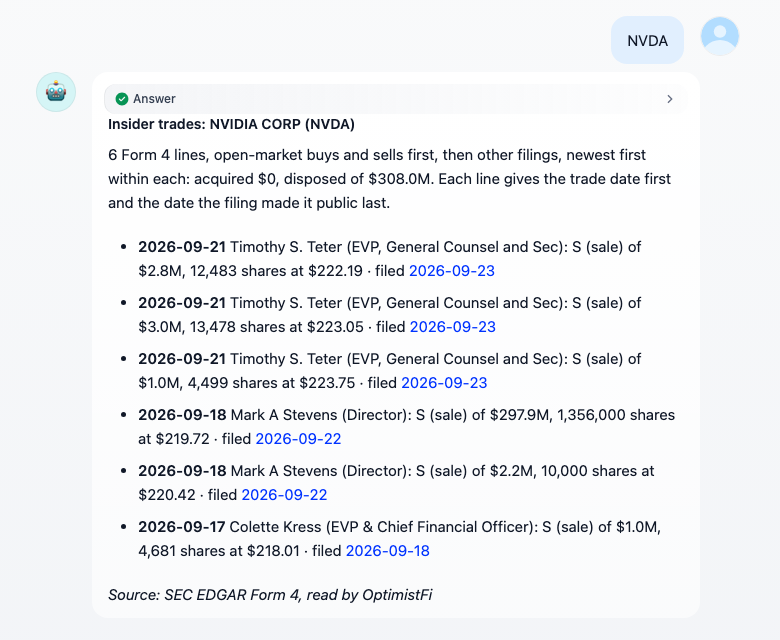
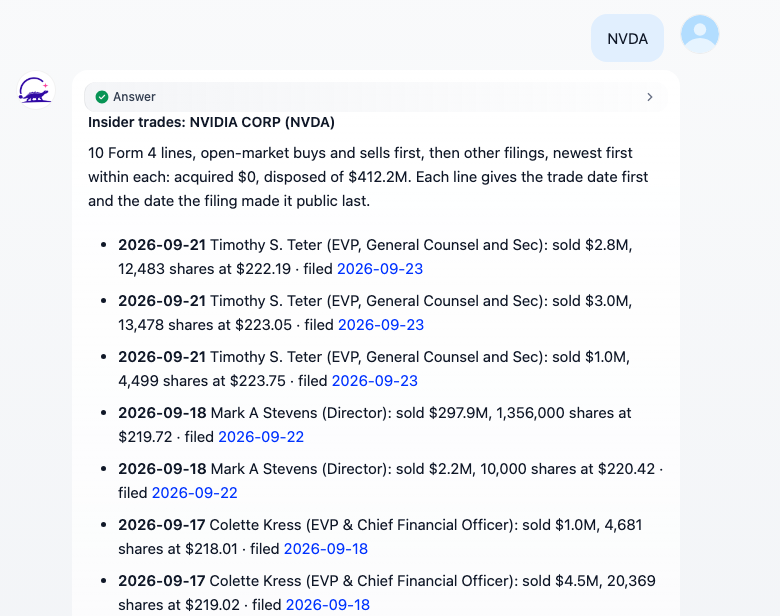
Calendar as a list with named trials; insider lines say what was done; one retry on a restart
Testing each tool in Dify 1.18 showed three things to fix before 0.1.1:
- Earnings Calendar's table scrolled sideways in the chat bubble and cut the
  basis off. It is now a list. Trial readouts name the study, phase and
  condition, link to ClinicalTrials.gov, and are cited as its data; they used
  to read "fda event, estimated" with nothing else.
- Insider lines used the bare code letter ("S (sale)"). They now use the
  server's verb ("sold", "gave away"), and a sale to cover tax says so.
- A 502/503/504 while the server restarts is retried once after 5 seconds,
  and a lasting one says the server is restarting.

README screenshots are retaken with the OptimistFi icon as the demo apps'
avatar, and the insider tool copy says "what they did" in all four languages.

Changed region(s): [[0.1231, 0.3701, 0.8615, 1.0], [0.0308, 0.0925, 0.8615, 0.3393], [0.7692, 0.0, 0.9538, 0.0925]]

diff --git a/optimistfi/render.py b/optimistfi/render.py
@@ -116,28 +116,33 @@ def _company(records: Sequence[Any]) -> str:
     return f"{name} ({ticker})" if name and ticker else str(name or ticker or "")
 
 
-# The SEC's Form 4 codes (Form 4, General Instructions, item 8).
-FORM4_CODES = {
-    "P": "purchase",
-    "S": "sale",
-    "A": "award",
-    "D": "to company",
-    "F": "tax withheld",
-    "M": "option exercise",
-    "X": "option exercise",
-    "O": "option exercise",
-    "C": "conversion",
-    "G": "gift",
-    "J": "other",
-    "W": "inheritance",
+# The SEC's Form 4 codes as verbs (Form 4, General Instructions, item 8), for a reply without the server's own.
+FORM4_VERBS = {
+    "P": "bought",
+    "S": "sold",
+    "A": "received",
+    "D": "returned to the company",
+    "F": "surrendered for tax",
+    "M": "exercised",
+    "X": "exercised",
+    "O": "exercised",
+    "C": "converted",
+    "G": "gave away",
+    "W": "inherited",
 }
 
 
-def _form4_code(code: Any) -> str:
-    if not code:
-        return DASH
-    meaning = FORM4_CODES.get(str(code).upper())
-    return f"{code} ({meaning})" if meaning else str(code)
+def _insider_act(data: dict[str, Any]) -> str:
+    """What the insider did as a verb ("sold", "gave away"), then the money and the shares."""
+    code = str(data.get("txn_code") or "").upper()
+    verb = data.get("direction") or FORM4_VERBS.get(code) or (f"filed Form 4 code {code} for" if code else "reported")
+    money = fmt.usd(data["value"]) if fmt.is_num(data.get("value")) and data["value"] else None
+    shares = f"{fmt.number(data['shares'])} shares" if fmt.is_num(data.get("shares")) else None
+    if shares and fmt.is_num(data.get("price")) and data["price"]:
+        shares += f" at {fmt.price(data['price'])}"
+    detail = ", ".join(part for part in (money, shares) if part)
+    act = f"{verb} {detail}" if detail else verb
+    return act + (", to cover tax on vesting stock" if data.get("sell_to_cover") else "")
 
 
 def insider_trades(records: Sequence[Any]) -> Summary:
@@ -153,9 +158,7 @@ def insider_trades(records: Sequence[Any]) -> Summary:
         "Each line gives the trade date first and the date the filing made it public last.",
         "\n".join(
             f"- **{r.get('event_time')}** {fmt.clip(r['data'].get('insider_display_name') or r['data'].get('insider_name'), 60)}: "
-            f"{_form4_code(r['data'].get('txn_code'))} of {fmt.usd(r['data'].get('value'))}, "
-            f"{fmt.number(r['data'].get('shares'))} shares at {fmt.price(r['data'].get('price'))} · "
-            f"filed {fmt.link(str(r.get('as_of')), source_url(r))}"
+            f"{_insider_act(r['data'])} · filed {fmt.link(str(r.get('as_of')), source_url(r))}"
             for r in trades[:25]
         ),
         "_Source: SEC EDGAR Form 4, read by OptimistFi_",
@@ -341,33 +344,59 @@ def company_filings(records: Sequence[Any], kind: str = "events") -> Summary:
 # -------------------------------------------------------------------- calendar
 
 
+PHASE_RE = re.compile(r"(EARLY_)?PHASE(\d)")
+
+
+def _phase(value: Any) -> str | None:
+    found = PHASE_RE.findall(str(value or ""))
+    if not found:
+        return None
+    return ("Early " if found[0][0] else "") + "Phase " + "/".join(n for _, n in found)
+
+
+def _calendar_line(record: dict[str, Any]) -> str:
+    d = record.get("data") or {}
+    when = f"- **{d.get('projected_date') or record.get('event_time') or DASH}**"
+    status = record.get("confidence") or d.get("status") or DASH
+    if d.get("event_type") == "trial_readout":
+        facts = [
+            _phase(d.get("phase")),
+            d.get("indication"),
+            str(d.get("status") or "").replace("_", " ").lower() or None,
+        ]
+        about = "; ".join(fmt.clip(f, 90) for f in facts if f)
+        return (
+            f"{when} trial readout, {status}: {fmt.clip(d.get('drug'), 120)}"
+            + (f" ({about})" if about else "")
+            + f" · {fmt.link('ClinicalTrials.gov', source_url(record))}"
+        )
+    event = (d.get("subtype") or record.get("type") or "event").replace("_", " ")
+    line = f"{when} {event}, {status}" + (f": {d['estimate_basis']}" if d.get("estimate_basis") else "")
+    return line + (f". Last reported {d['last_reported']}." if d.get("last_reported") else "")
+
+
 def company_calendar(records: Sequence[Any]) -> Summary:
     company = _company(records)
     events = [r for r in records if isinstance(r, dict) and r.get("type") not in ("thesis_impact",) and r.get("data")]
     if not events:
         return generic(records, f"{company}: what is ahead")
-    lines = [f"### {company}: what is ahead"]
-    rows = []
-    for r in events[:MAX_ROWS]:
-        d = r.get("data") or {}
-        basis = d.get("estimate_basis")
-        status = r.get("confidence") or d.get("status")
-        rows.append(
-            [
-                d.get("projected_date") or r.get("event_time"),
-                (d.get("subtype") or r.get("type") or DASH).replace("_", " "),
-                f"{status}" + (f": {basis}" if basis else ""),
-                d.get("last_reported") or DASH,
-            ]
+    lines = [f"### {company}: what is ahead", "\n".join(_calendar_line(r) for r in events[:MAX_ROWS])]
+    shown = events[:MAX_ROWS]
+    if any((r.get("data") or {}).get("estimate_basis") for r in shown):
+        lines.append(
+            "An estimated earnings date is projected from the company's own filing cadence; it is not a date the company announced."
         )
-    lines.append(fmt.table(["Date", "Event", "Status and basis", "Last reported"], rows))
-    lines.append(
-        "An estimated date is projected from the company's own filing cadence; it is not a date the company announced."
-    )
+    if any((r.get("data") or {}).get("event_type") == "trial_readout" for r in shown):
+        lines.append(
+            "A trial readout date is the study's primary completion date as its sponsor filed it on ClinicalTrials.gov."
+        )
     thesis = _thesis_line(records)
     if thesis:
         lines.append(thesis)
-    lines.append("_Source: SEC EDGAR filing cadence, computed by OptimistFi_")
+    sources = ["SEC EDGAR filing cadence, computed by OptimistFi"]
+    if any((r.get("data") or {}).get("event_type") == "trial_readout" for r in shown):
+        sources.append("ClinicalTrials.gov")
+    lines.append(f"_Source: {'; '.join(sources)}_")
     earnings = next((r for r in events if (r.get("data") or {}).get("subtype") == "earnings"), {})
     variables = {
         "as_of": earnings.get("as_of") or events[0].get("as_of"),

diff --git a/tests/test_render.py b/tests/test_render.py
@@ -62,7 +62,7 @@ def test_insider_rows_carry_trade_and_filing_dates():
     assert "open-market buys and sells first, then other filings, newest first within each" in text
 
     assert (
-        "- **2026-09-21** Timothy S. Teter (EVP, General Counsel and Sec): S (sale) of $2.8M, 12,483 shares at $222.19"
+        "- **2026-09-21** Timothy S. Teter (EVP, General Counsel and Sec): sold $2.8M, 12,483 shares at $222.19"
         " · filed [2026-09-23](https://www.sec.gov/Archives/edgar/data/1045810/000169684126000014/)"
     ) in text
 
@@ -107,11 +107,30 @@ def test_projected_earnings_reads_as_an_estimate():
     summary = summarize("calendar_aapl")
 
     assert (
-        "| 2026-10-29 | earnings | estimated: expected imminently — projected 2026-10-29 from filing cadence"
-        " (median gap 91d over 8 filings)"
+        "- **2026-10-29** earnings, estimated: expected imminently — projected 2026-10-29 from filing cadence"
+        " (median gap 91d over 8 filings), not yet filed; typically confirmed within days. Last reported 2026-07-30."
     ) in summary.text
     assert summary.variables["next_earnings_confidence"] == "estimated"
-    assert "| confirmed" not in summary.text  # the basis may say a date is "typically confirmed within days"
+    assert ", confirmed" not in summary.text  # the basis may say a date is "typically confirmed within days"
+
+
+@pytest.mark.parametrize("name", ["calendar_aapl", "calendar_mrna", "calendar_lly"])
+def test_calendar_is_a_list_so_a_long_basis_wraps_in_the_chat_bubble(name):
+    # A table scrolled sideways in Dify's bubble and cut the basis off mid-word.
+    assert "|---" not in summarize(name).text
+
+
+def test_trial_readouts_name_the_study_and_link_its_registry_entry():
+    text = summarize("calendar_lly").text
+
+    assert (
+        "- **2027-02-01** trial readout, estimated: A First-In-Human Study of LY3954068 in Participants With Early"
+        " Symptomatic Alzheimer's Disease (Phase 1; Alzheimer Disease; recruiting)"
+        " · [ClinicalTrials.gov](https://clinicaltrials.gov/study/NCT06297590)"
+    ) in text
+    assert "primary completion date as its sponsor filed it on ClinicalTrials.gov" in text
+    assert "fda event" not in text
+    assert text.endswith("_Source: SEC EDGAR filing cadence, computed by OptimistFi; ClinicalTrials.gov_")
 
 
 def test_8k_text_starts_at_the_first_item_not_the_xbrl_header():
@@ -175,3 +194,30 @@ def test_a_flow_label_reads_as_words():
     text = render.company_filings(records, kind="events").text
 
     assert "**mildly bearish**" in text and "mildly_bearish" not in text
+
+
+@pytest.mark.parametrize(
+    ("data", "text"),
+    [
+        (
+            {"txn_code": "S", "direction": "sold", "value": 2.8e6, "shares": 12483, "price": 222.19},
+            "sold $2.8M, 12,483 shares at $222.19",
+        ),
+        (
+            {"txn_code": "G", "direction": "gave away", "value": 0, "shares": 500000, "price": 0},
+            "gave away 500,000 shares",
+        ),
+        (
+            {"txn_code": "S", "direction": "sold", "sell_to_cover": True, "value": 1e4, "shares": 50, "price": 200},
+            "sold $10K, 50 shares at $200.00, to cover tax on vesting stock",
+        ),
+        ({"txn_code": "A", "value": None, "shares": 1000, "price": None}, "received 1,000 shares"),
+        ({"txn_code": "K", "shares": 10}, "filed Form 4 code K for 10 shares"),
+        (
+            {"txn_code": "F", "direction": "surrendered", "shares": 2000, "price": 220},
+            "surrendered 2,000 shares at $220.00",
+        ),
+    ],
+)
+def test_insider_lines_say_what_was_done_without_a_bare_code(data, text):
+    assert render._insider_act(data) == text

diff --git a/tests/test_client.py b/tests/test_client.py
@@ -81,10 +81,40 @@ def test_timeout_explains_itself(_post):
 @patch("optimistfi.client.httpx.post")
 def test_http_status_is_reported(post):
     request = httpx.Request("POST", client.ENDPOINT)
-    response = httpx.Response(503, request=request, text="unavailable")
-    post.return_value = response
+    post.return_value = httpx.Response(404, request=request, text="not found")
 
-    assert client.call("get_insider_trades", {"entity": "AAPL"}).error == "OptimistFi answered with HTTP 503."
+    assert client.call("get_insider_trades", {"entity": "AAPL"}).error == "OptimistFi answered with HTTP 404."
+    assert post.call_count == 1
+
+
+@patch("optimistfi.client.time.sleep")
+@patch("optimistfi.client.httpx.post")
+def test_a_restart_gap_is_retried_once(post, sleep):
+    request = httpx.Request("POST", client.ENDPOINT)
+    post.side_effect = [
+        httpx.Response(502, request=request, text="bad gateway"),
+        httpx.Response(200, request=request, text=tool_reply({"result": [{"type": "insider_trade"}]})),
+    ]
+
+    reply = client.call("get_insider_trades", {"entity": "AAPL"})
+
+    assert reply.error is None and reply.records == [{"type": "insider_trade"}]
+    sleep.assert_called_once_with(client.RETRY_SECONDS)
+
+
+@patch("optimistfi.client.time.sleep")
+@patch("optimistfi.client.httpx.post")
+def test_a_server_still_restarting_says_so(post, _sleep):
+    request = httpx.Request("POST", client.ENDPOINT)
+    post.return_value = httpx.Response(503, request=request, text="unavailable")
+
+    error = client.call("get_insider_trades", {"entity": "AAPL"}).error
+
+    assert error == (
+        "OptimistFi's server did not answer (HTTP 503) on two tries 5 seconds apart. "
+        "It sends this status while it restarts, which takes a few minutes."
+    )
+    assert post.call_count == 2
 
 
 @patch("optimistfi.client.httpx.post", side_effect=httpx.ConnectError("refused"))

diff --git a/optimistfi/client.py b/optimistfi/client.py
@@ -7,6 +7,7 @@ goes in and the reply comes back as server-sent events. No key is needed.
 from __future__ import annotations
 
 import json
+import time
 from dataclasses import dataclass, field
 from typing import Any
 
@@ -19,6 +20,9 @@ HEADERS = {
     "User-Agent": "optimistfi-dify-plugin/0.1.1",
 }
 TIMEOUT_SECONDS = 100.0
+# A gateway status is what the server sends while it restarts; one retry rides out a short gap.
+GATEWAY = {502, 503, 504}
+RETRY_SECONDS = 5.0
 
 
 @dataclass
@@ -74,6 +78,9 @@ def parse(body: str) -> Reply:
 def call(tool: str, arguments: dict[str, Any], timeout: float = TIMEOUT_SECONDS) -> Reply:
     try:
         response = httpx.post(ENDPOINT, headers=HEADERS, json=payload(tool, arguments), timeout=timeout)
+        if response.status_code in GATEWAY:
+            time.sleep(RETRY_SECONDS)
+            response = httpx.post(ENDPOINT, headers=HEADERS, json=payload(tool, arguments), timeout=timeout)
         response.raise_for_status()
         return parse(response.text)
     except httpx.TimeoutException:
@@ -84,7 +91,15 @@ def call(tool: str, arguments: dict[str, Any], timeout: float = TIMEOUT_SECONDS)
             )
         )
     except httpx.HTTPStatusError as error:
-        return Reply(error=f"OptimistFi answered with HTTP {error.response.status_code}.")
+        code = error.response.status_code
+        if code in GATEWAY:
+            return Reply(
+                error=(
+                    f"OptimistFi's server did not answer (HTTP {code}) on two tries {RETRY_SECONDS:.0f} seconds apart. "
+                    "It sends this status while it restarts, which takes a few minutes."
+                )
+            )
+        return Reply(error=f"OptimistFi answered with HTTP {code}.")
     except httpx.RequestError as error:
         return Reply(error=f"OptimistFi could not be reached: {type(error).__name__}.")
     except ValueError:

diff --git a/README.md b/README.md
@@ -42,7 +42,7 @@ The plugin connects to `https://mcp.optimistfi.com/mcp` over HTTPS, so a self-ho
 
 | Tool | What it answers |
 |---|---|
-| **Insider Trades** | A US company's Form 4 filings from SEC EDGAR: who, role, Form 4 code, shares and dollar value, with the trade date and the date it became public. Open-market buys and sells come first, then grants, option exercises and gifts. |
+| **Insider Trades** | A US company's Form 4 filings from SEC EDGAR: who, role, what they did, shares and dollar value, with the trade date and the date it became public. Open-market buys and sells come first, then grants, option exercises and gifts. |
 | **Congress Trades** | US House stock disclosures under the STOCK Act, by ticker or by member. A ticker answer opens with buys, sells and the most active members; each line names the account the trade was made in and links to its filing. |
 | **SEC Filings** | 8-K events, earnings press releases, the text of recent 8-Ks, and governance red flags (late filings, auditor changes, insider selling clusters). |
 | **Earnings Calendar** | The next earnings date projected from the company's own filing cadence, labeled as an estimate with its basis, and clinical trial readouts where a company has them. |
@@ -62,7 +62,7 @@ Labels, descriptions and forms are in English, Simplified Chinese, Japanese and 
 2. **Insider Trades** tool node: *Company* set to the user's message (`sys.query`), *Rows* `10`.
 3. **Answer** node: insert the tool node's `text` variable.
 
-The answer lists the company's open-market buys and sells first, then other Form 4 filings, each with the trade date, the insider, the Form 4 code, the dollar value and the filing date, each linked to the filing at SEC EDGAR.
+The answer lists the company's open-market buys and sells first, then other Form 4 filings, each with the trade date, the insider, what they did, the dollar value and the filing date, each linked to the filing at SEC EDGAR.
 
 ## Example: an agent
 

diff --git a/readme/README_pt_BR.md b/readme/README_pt_BR.md
@@ -20,7 +20,7 @@ Não há nada a configurar: nenhuma chave de API, credencial ou etapa de autoriz
 
 | Ferramenta | O que responde |
 |---|---|
-| **Negociações de insiders** | Os registros Form 4 de uma empresa dos EUA na SEC EDGAR: quem, cargo, código da operação, ações e valor em dólares, com a data do negócio e a data em que se tornou público. Compras e vendas no mercado vêm primeiro, depois concessões, exercícios de opções e doações. |
+| **Negociações de insiders** | Os registros Form 4 de uma empresa dos EUA na SEC EDGAR: quem, cargo, o que fez, ações e valor em dólares, com a data do negócio e a data em que se tornou público. Compras e vendas no mercado vêm primeiro, depois concessões, exercícios de opções e doações. |
 | **Negociações do Congresso** | Divulgações de ações da Câmara dos EUA sob o STOCK Act, por ticker ou por membro. Uma resposta por ticker começa com compras, vendas e os membros mais ativos; cada linha indica a conta em que a operação foi feita e leva ao registro. |
 | **Registros na SEC** | Eventos 8-K, comunicados de resultados, o texto dos 8-Ks recentes e sinais de alerta de governança (registros atrasados, troca de auditor, concentração de vendas de insiders). |
 | **Calendário de resultados** | A próxima data de resultados projetada pelo ritmo de registros da própria empresa, marcada como estimativa com a sua base, e as leituras de ensaios clínicos quando a empresa os tem. |
